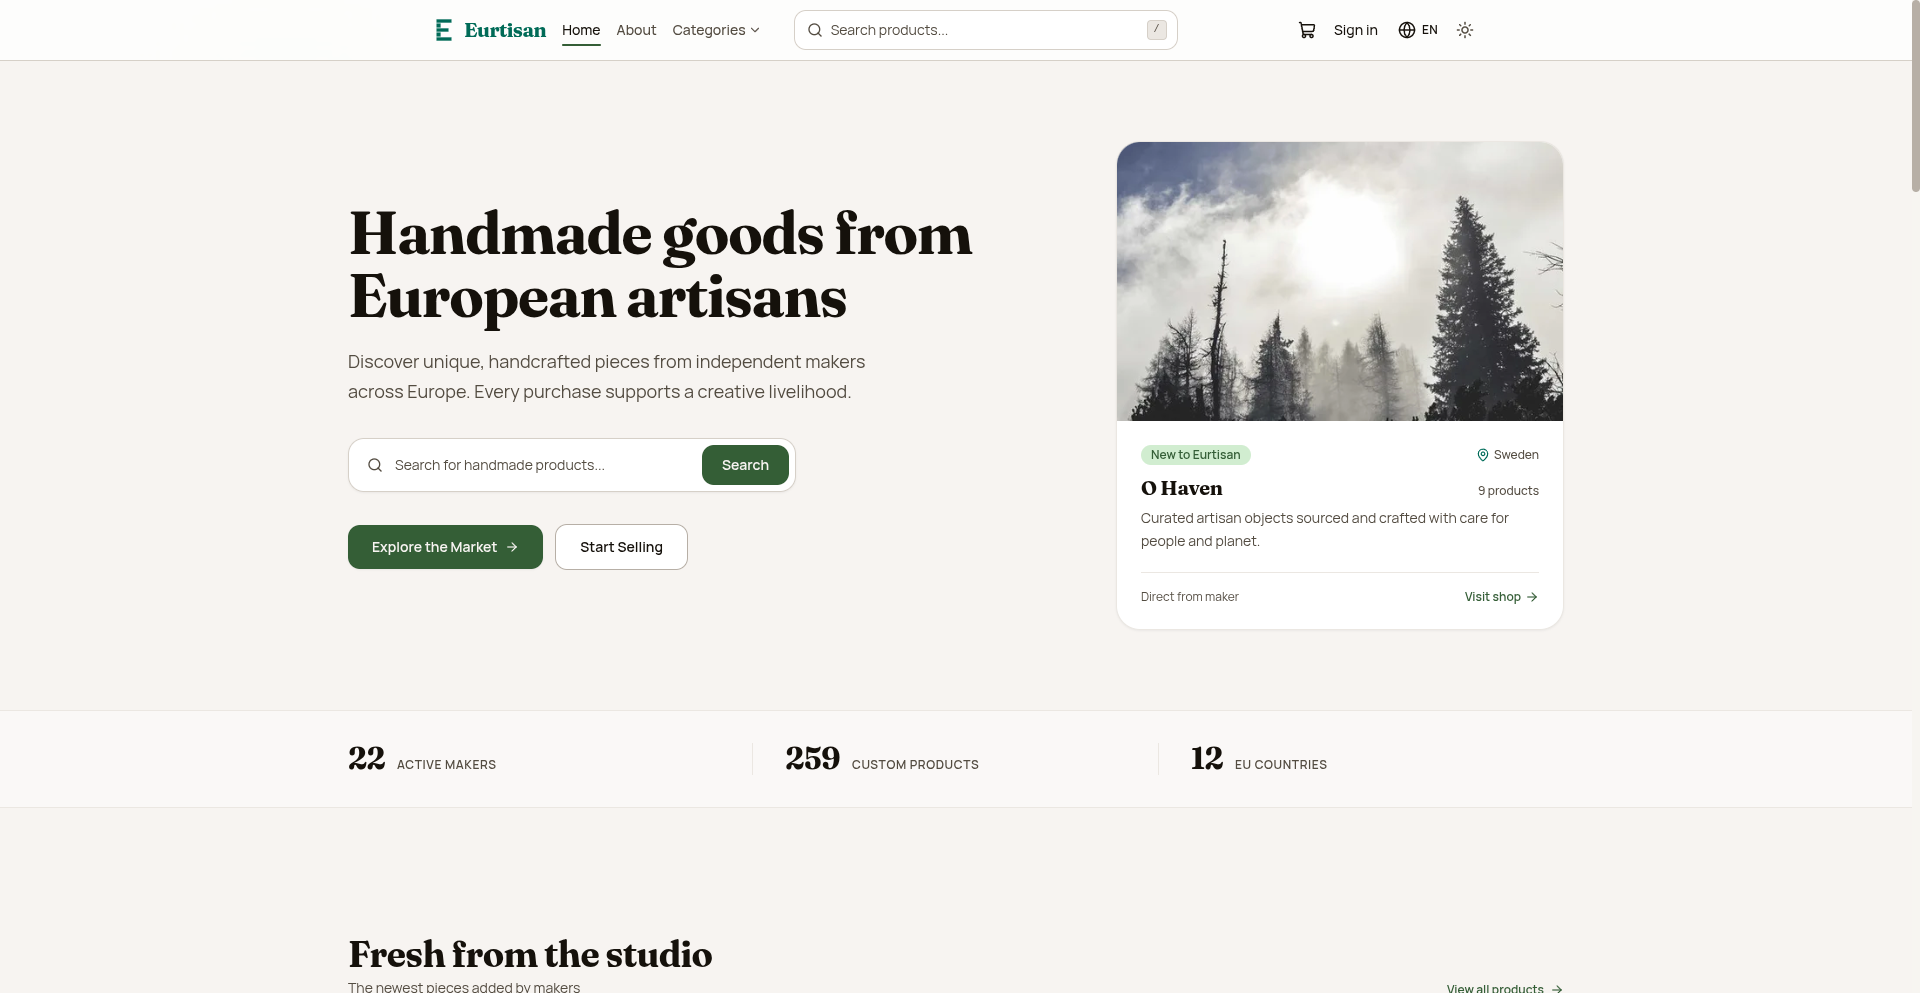
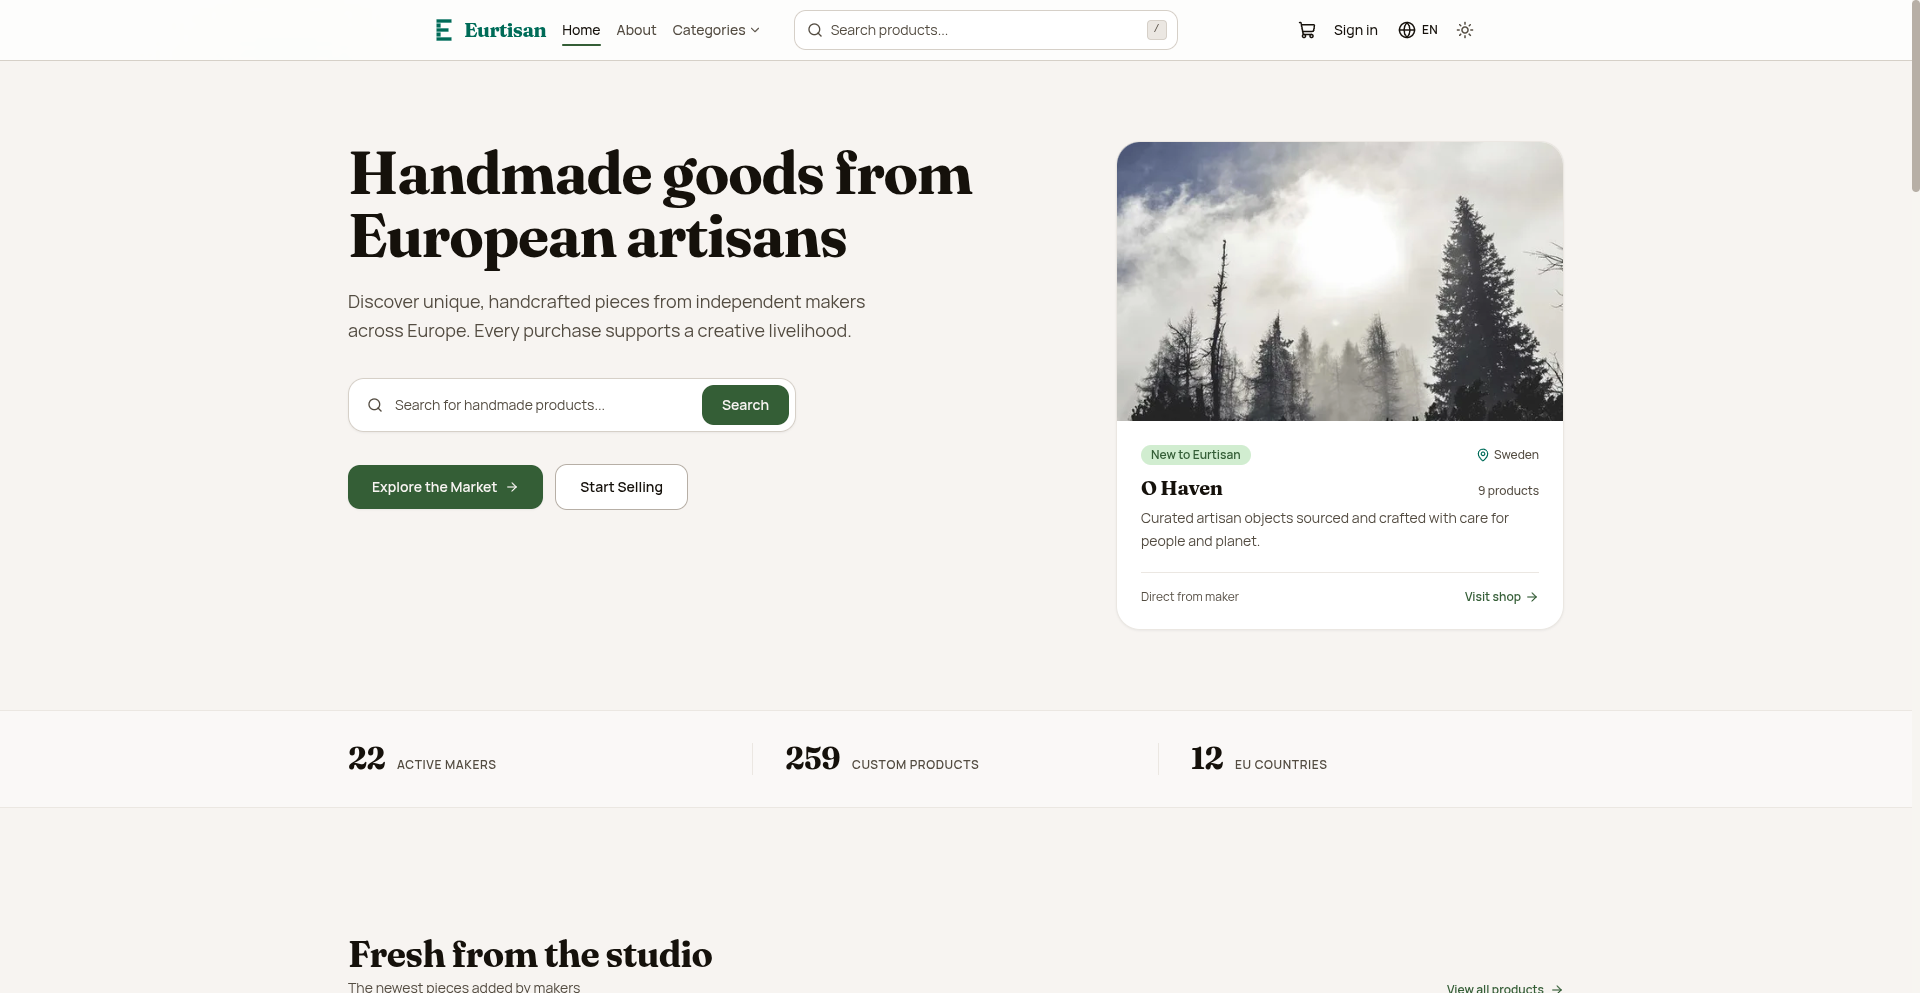
fix(home): align hero headline flush with maker card top

Changed region(s): [[0.1562, 0.1561, 0.5312, 0.5932]]

diff --git a/src/components/home/HomeHeroSection.tsx b/src/components/home/HomeHeroSection.tsx
@@ -115,7 +115,7 @@ export function HomeHeroSection({
   return (
     <section className='border-b border-border-subtle bg-bg-base py-10 sm:py-14 lg:py-20'>
       <div className='mx-auto max-w-7xl px-4 sm:px-6 lg:px-8'>
-        <div className='flex flex-col lg:flex-row lg:items-center lg:justify-between lg:gap-12'>
+        <div className='flex flex-col lg:flex-row lg:items-start lg:justify-between lg:gap-12'>
           {/* Mobile maker window */}
           <div className='lg:hidden mb-8'>
             {featuredShop ? (
@@ -145,7 +145,7 @@ export function HomeHeroSection({
           </div>
 
           {/* Primary hero content */}
-          <div className='lg:w-[55%] flex flex-col justify-center'>
+          <div className='lg:w-[55%] flex flex-col'>
             <h1 className='display-title text-4xl sm:text-5xl lg:text-6xl font-bold tracking-tight text-text-primary leading-[1.08]'>
               {m.home_hero_title()}
             </h1>
